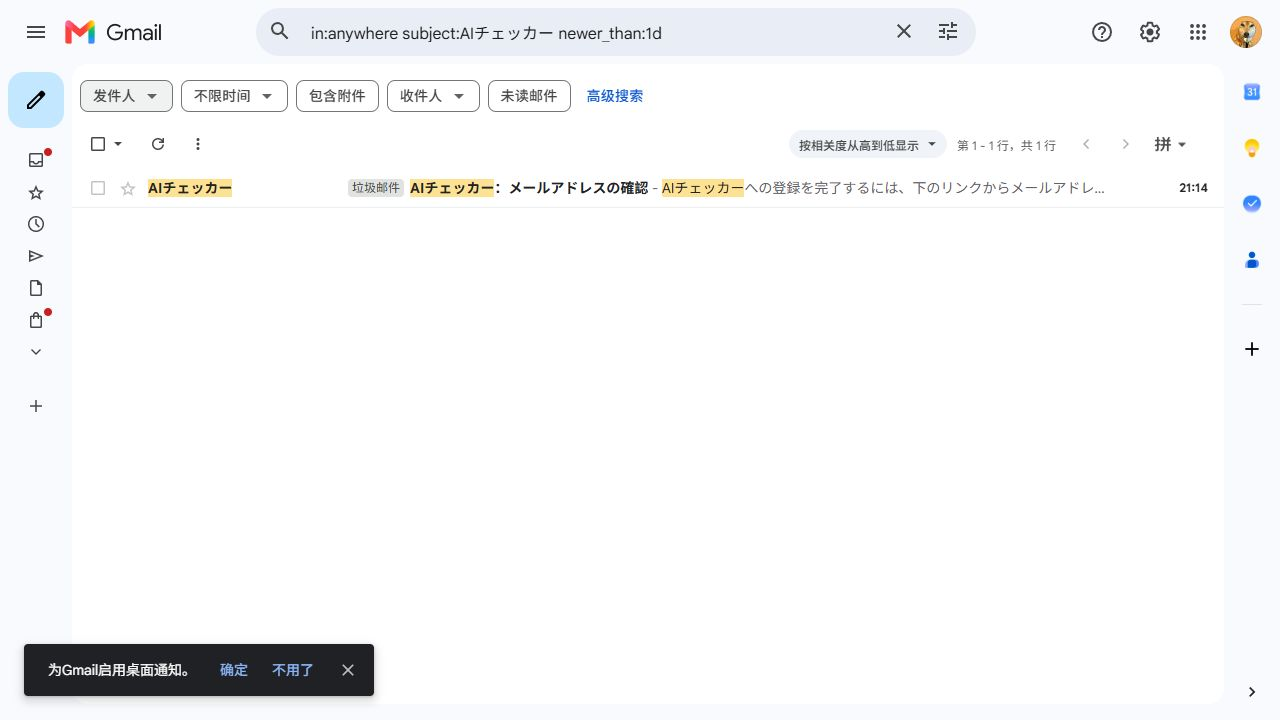
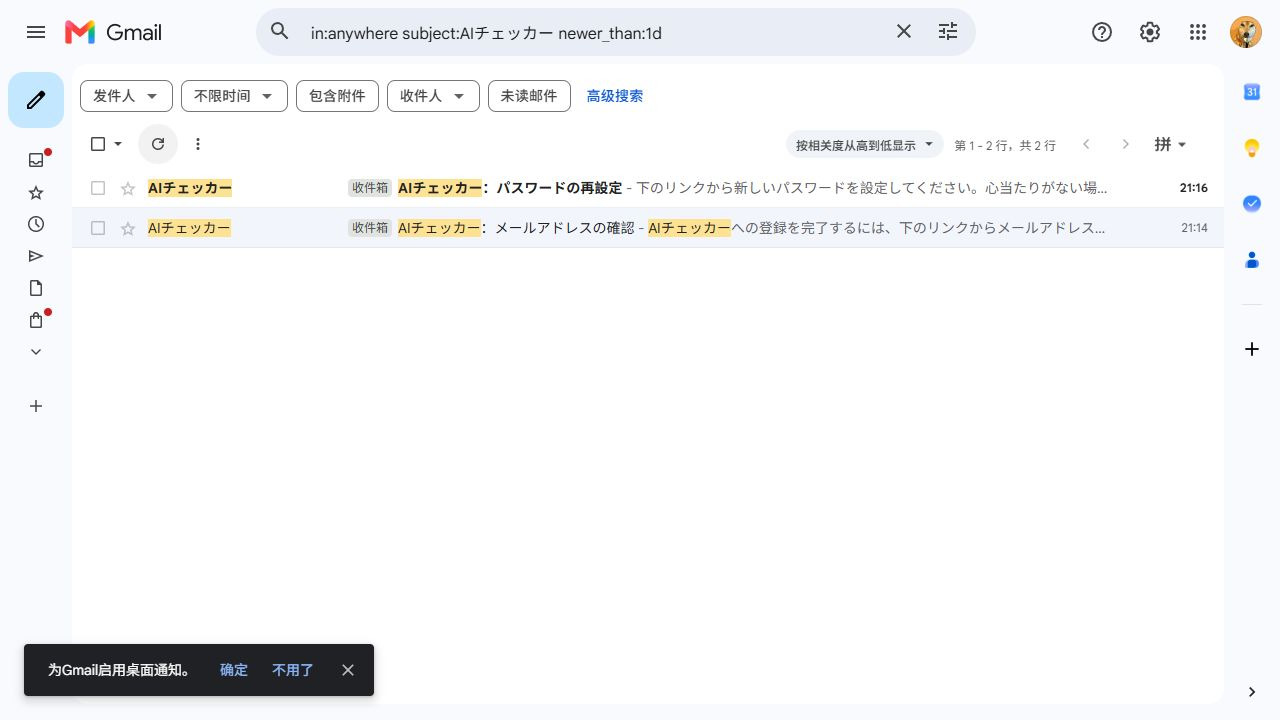
Confirm password reset email reached Gmail inbox

diff --git a/docs/accounts-billing-2026-11-05.md b/docs/accounts-billing-2026-11-05.md
@@ -62,5 +62,5 @@ Waffo SDK 0.26支持订阅产品 `prices.USD.trialAmount`，并要求 `metadata.
 
 - Vercel Production 五项 SMTP 配置均为 Secret，Preview 不配置；重新部署 Ei7aUV8DVZo5YhLphHU3159rufaP 已 Ready，线上 emailRegistration/passwordReset/google 均为 true，checkoutEnabled=false。
 - 以站点所有者 Gmail 独立测试别名注册，线上返回200且待验证。Resend 消息 01a1abd8-40d8-7dba-86d8-8e2c9a9c3576 显示 Delivered，Gmail 实际收到验证邮件。首封进入垃圾邮件，已对该测试邮件标记非垃圾邮件；不据此声称所有收件人的收件箱投递率已验证。
-- 点击邮件验证后，密码登录200、会话确认 emailVerified=true、退出200；密码恢复请求200。测试密码仅保存在被忽略的 work/production-auth-test.json。未修改用户原有密码、未产生真实扣款。
+- 点击邮件验证后，密码登录200、会话确认 emailVerified=true、退出200；密码恢复请求200，Gmail 已实际收到密码重设邮件（21:16，收件箱）。测试密码仅保存在被忽略的 work/production-auth-test.json。未修改用户原有密码、未产生真实扣款。
 - 审核凭证：waffo-review-pending.png；生产配置：smtp-production-configured.png；实际收信：smtp-live-delivery.png。
